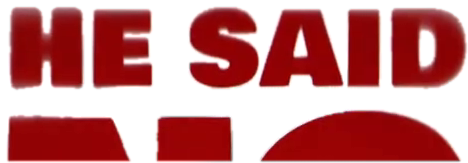
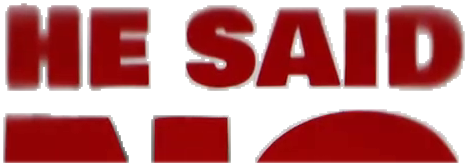
fix(v4): type arrives, it does not fly in — and the cut-out is opaque
Three measurements, one of which was a wrong model rather than a wrong number:

1. HE appears at 2.10 s, not 2.05 — the plate was the first frame the type occupies,
   so the plate itself carried a red ghost of HE. The plate is now 2.05, the last
   frame that is genuinely free of type.

2. NO does not scale in. It is absent at 2.50 s and 461 px wide at 2.60, full size
   (473) by 2.95. A 1.55 -> 1.0 slam was inventing an entrance the reference never
   has; it is now a 0.10 s arrival at scale 1.05.

3. The type in the reference is opaque, so unmixing it against an earlier frame was
   solving for the wrong thing: the two frames differ by the type's colour over the
   background's change, not by the type's alpha. The letters came out translucent
   with the plate showing through, and the threshold used to clean that up drew a
   straight line across them. The layers are now cut from the reference's own final
   frame, masked by the glyph shape.

diff --git a/showreel/v4/index.html b/showreel/v4/index.html
@@ -184,10 +184,10 @@
     <!-- HE SAID and NO arrive as two beats, so they are two layers: the plate has
          neither. Both cut by unmixing two of the reference's own frames, which
          gives a real alpha and no fringe. -->
-    <div class="layer" id="s5he" style="left:114px; top:235px; width:468px; height:163px;
+    <div class="layer" id="s5he" style="left:117px; top:235px; width:465px; height:163px;
          background:url('./assets/ref/s5-he-layer.png') center/100% 100% no-repeat; opacity:0;
          will-change:transform,opacity;"></div>
-    <div class="layer" id="s5no" style="left:112px; top:388px; width:480px; height:196px;
+    <div class="layer" id="s5no" style="left:115px; top:391px; width:477px; height:193px;
          background:url('./assets/ref/s5-no.png') center/100% 100% no-repeat; opacity:0;
          will-change:transform,opacity;"></div>
   </section>
@@ -451,10 +451,15 @@
   /* HE SAID and NO are two beats, not one: HE SAID is a faint pre-echo in the
      reference from about 2.2 s and solid by 2.45, NO slams 2.35 -> 2.95 and is the
      harder hit, so it travels further. */
-  tl.fromTo("#s5he", { opacity: 0, scale: 1.25, y: 14 },
-    { opacity: 1, scale: 1.0, y: 0, duration: 0.30, ease: "power3.out" }, 2.15);
-  tl.fromTo("#s5no", { opacity: 0, scale: 1.55, y: -26 },
-    { opacity: 1, scale: 1.0, y: 0, duration: 0.20, ease: "power4.out" }, 2.55);
+  /* Measured arrival, not a guess: HE SAID is faint from 2.10 and solid by 2.45,
+     a fade with almost no scale. NO is not there at 2.50 and is 461 px wide at
+     2.60 — full size inside a tenth of a second — so it does not fly in, it
+     arrives. A big scale-in was the one thing this scene was doing that the
+     reference never does. */
+  tl.fromTo("#s5he", { opacity: 0, scale: 1.06, y: 6 },
+    { opacity: 1, scale: 1.0, y: 0, duration: 0.35, ease: "power2.out" }, 2.10);
+  tl.fromTo("#s5no", { opacity: 0, scale: 1.05, y: 6 },
+    { opacity: 1, scale: 1.0, y: 0, duration: 0.10, ease: "none" }, 2.54);
 
   /* ================= S6 · the reveal plate ================================
      Reference: the mark spins up, the money arrives, "2008" fades up, then the

diff --git a/tools/s5_assets.py b/tools/s5_assets.py
@@ -30,7 +30,7 @@ from ffbin import ffmpeg
 
 REF = "analysis/attachment-filename-How-to-Edit-VIRAL-RE/reference.mp4"
 OUT = Path("showreel/v4/assets/ref")
-PLATE_T, CLEAN_T, FULL_T = 2.10, 2.05, 2.95
+PLATE_T, CLEAN_T, FULL_T = 2.05, 2.05, 2.95
 FF = ffmpeg()
 
 
@@ -41,28 +41,30 @@ def grab(t: float) -> np.ndarray:
     return np.asarray(Image.open(io.BytesIO(raw)).convert("RGB")).astype(np.float32)
 
 
-def unmix(name: str, sel: np.ndarray, full: np.ndarray, base: np.ndarray) -> list[int]:
-    """Recover C and alpha from full = C*a + base*(1-a), given where the type is.
+def cut_out(name: str, sel: np.ndarray, full: np.ndarray) -> list[int]:
+    """Cut the element out of the reference's own final frame.
 
-    Two frames of the same shot, one with the element and one without, so the
-    difference is the element. Keying by colour instead leaves a pale fringe on
-    every glyph edge; solving for C does not.
+    Solving for alpha against an earlier frame was wrong in a way that looked like
+    a bug and was not: the type in the reference is opaque, so the difference
+    between the two frames is not the element's alpha, it is the element's colour
+    over whatever the background changed by. Dividing by that difference gave a
+    partial alpha, the plate showed through the letters, and the threshold that
+    cleaned it up drew a straight line across them.
+
+    The element is opaque, so the layer is the final frame's own pixels, masked by
+    the glyph shape and feathered by a pixel or two to sit on the plate.
     """
-    d = np.abs(full - base).max(axis=2)
-    al = np.where(sel, np.clip(d / 210.0, 0, 1), 0).astype(np.float32)
-    solid = (al > 0.30).astype(np.uint8)
-    n, lbl, st, _ = cv2.connectedComponentsWithStats(solid, 8)
-    keep = np.zeros_like(solid)
-    for i in range(1, n):
-        if st[i, cv2.CC_STAT_AREA] > 1500:
-            keep[lbl == i] = 1
-    al = cv2.GaussianBlur((keep * 255).astype(np.uint8), (0, 0), 1.0).astype(np.float32) / 255
-    a = np.clip(al, 1e-3, 1)[..., None]
-    c = np.clip((full - (1 - a) * base) / a, 0, 255)
-    ys, xs = np.where(al > 0.05)
+    shape = cv2.dilate(sel.astype(np.uint8), np.ones((5, 5), np.uint8))
+    al = cv2.GaussianBlur(shape.astype(np.float32), (0, 0), 1.6)
+    al = np.clip(al / max(al.max(), 1e-6), 0, 1) * (shape > 0)
+
+    ys, xs = np.where(al > 0.02)
     x0, x1, y0, y1 = xs.min(), xs.max() + 1, ys.min(), ys.max() + 1
-    x0, y0 = max(0, x0 - 6), max(0, y0 - 6)
-    rgba = np.dstack([c, al * 255]).astype(np.uint8)[y0:y1, x0:x1]
+    x0, y0 = max(0, x0 - 3), max(0, y0 - 3)
+
+    colour = full[y0:y1, x0:x1]
+    alpha = al[y0:y1, x0:x1]
+    rgba = np.dstack([colour, alpha * 255]).astype(np.uint8)
     cv2.imwrite(str(OUT / f"{name}.png"), cv2.cvtColor(rgba, cv2.COLOR_RGBA2BGRA))
     box = [int(x0), int(y0), int(x1 - x0), int(y1 - y0)]
     json.dump({"box": box}, open(OUT / f"{name}.json", "w"))
@@ -74,7 +76,7 @@ def main() -> None:
     OUT.mkdir(parents=True, exist_ok=True)
     plate, full, clean = grab(PLATE_T), grab(FULL_T), grab(CLEAN_T)
 
-    for name, f in (("plate 2.10", plate), ("full 2.95", full)):
+    for name, f in (("plate 2.05", plate), ("full 2.95", full)):
         r, g, b = f[:, :, 0], f[:, :, 1], f[:, :, 2]
         red = (r > 80) & (r - g > 35) & (r - b > 35)
         print(f"  {name}: {int(red.sum())} red pixels")
@@ -89,8 +91,8 @@ def main() -> None:
 
     up = np.zeros_like(red); up[:band, :] = True; up &= red
     lo = np.zeros_like(red); lo[band:, :] = True; lo &= red
-    unmix("s5-he-layer", up, full, clean)
-    unmix("s5-no", lo, full, clean)
+    cut_out("s5-he-layer", up, full)
+    cut_out("s5-no", lo, full)
 
     # the measured colour endpoints, so the page animates to something real
     swept = plate.mean(axis=(0, 1)).round(1)
